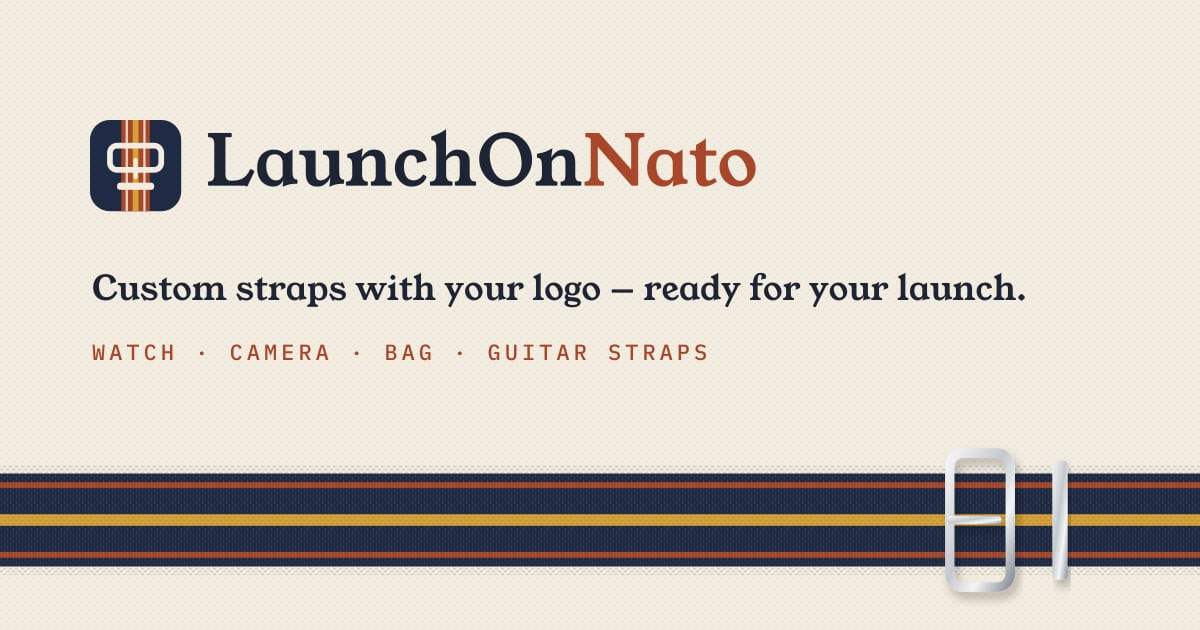
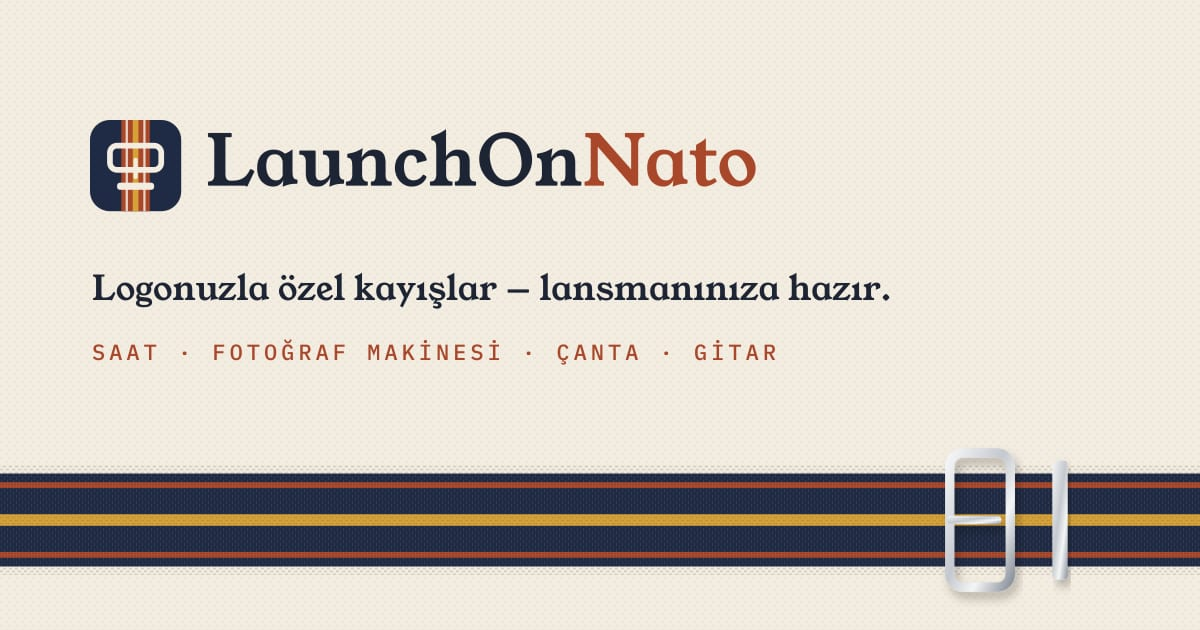
Make Turkish the main language; drop strap lettering; stronger scroll reveal
- Turkish served at /, English at /en/, /tr/ redirects to / (301)
- Per-language Open Graph image; Turkish glyphs in illustration text
- Remove LAUNCHONNATO lettering from hero, camera and guitar illustrations
- Scroll reveal slides further; with reduced motion it still fades in

Claude-Session: https://claude.ai/code/session_011wjvvRgPemc6oUo8ikWZLA

Changed region(s): [[0.0617, 0.4222, 0.8633, 0.4825], [0.2775, 0.5429, 0.6475, 0.573], [0.0617, 0.5429, 0.2467, 0.573]]

diff --git a/src/i18n/index.ts b/src/i18n/index.ts
@@ -1,7 +1,9 @@
 import en from './en';
 import tr from './tr';
 
-export const languages = { en: 'EN', tr: 'TR' } as const;
+// Turkish is the main language (served at /), English lives under /en/
+export const languages = { tr: 'TR', en: 'EN' } as const;
+export const defaultLang = 'tr';
 export type Lang = keyof typeof languages;
 
 export const dicts = { en, tr };
@@ -13,7 +15,7 @@ export function t(lang: Lang) {
 /** Root-relative URL for a page in the given language ("" = home). */
 export function localePath(lang: Lang, path = '') {
   const clean = path.replace(/^\/+/, '');
-  return lang === 'en' ? `/${clean}` : `/${lang}/${clean}`;
+  return lang === defaultLang ? `/${clean}` : `/${lang}/${clean}`;
 }
 
 export const isTodo = (s: string) => s.trim().startsWith('TODO');

diff --git a/src/styles/global.css b/src/styles/global.css
@@ -109,17 +109,17 @@
   }
 }
 
-/* Gentle reveal — only when JS is running and the user hasn't asked for reduced motion */
+/* Reveal on scroll. Content stays visible without JS. With reduced motion it's a soft fade only. */
+.js [data-reveal] {
+  opacity: 0;
+  transition: opacity 0.7s ease, transform 0.8s cubic-bezier(0.2, 0.7, 0.2, 1);
+}
 @media (prefers-reduced-motion: no-preference) {
-  .js [data-reveal] {
-    opacity: 0;
-    transform: translateY(14px);
-    transition: opacity 0.6s ease, transform 0.6s ease;
-  }
-  .js [data-reveal].is-visible {
-    opacity: 1;
-    transform: none;
-  }
+  .js [data-reveal] { transform: translateY(28px); }
+}
+.js [data-reveal].is-visible {
+  opacity: 1;
+  transform: none;
 }
 
 /* FAQ disclosure marker */

diff --git a/src/i18n/tr.ts b/src/i18n/tr.ts
@@ -30,7 +30,7 @@ const tr: Dict = {
     secondary: 'Kayışları gör',
     note: 'Fotoğraf makinesi, çanta ve gitar askıları da yapıyoruz. Aynı bant, aynı özen.',
     imgAlt: 'Tokasının yanında nakış logolu dokuma kayışlı bir saat',
-    tag: 'Pass-through · 20 mm · jakarlı logo',
+    tag: 'Pass-through · 20 mm · parlak çelik',
   },
   process: {
     eyebrow: 'Saat markaları için',

diff --git a/src/i18n/en.ts b/src/i18n/en.ts
@@ -29,7 +29,7 @@ const en = {
     secondary: 'See the straps',
     note: 'Also camera, bag and guitar straps. Same tape, same care.',
     imgAlt: 'Watch on a woven strap with a stitched logo near the buckle',
-    tag: 'Pass-through · 20 mm · jacquard logo',
+    tag: 'Pass-through · 20 mm · polished steel',
   },
   process: {
     eyebrow: 'For watch brands',

diff --git a/README.md b/README.md
@@ -1,7 +1,7 @@
 # LaunchOnNato — site
 
 Business-card site for LaunchOnNato: custom straps with the client's logo (watch straps first; camera, bag and guitar straps too).
-Astro + Tailwind CSS, fully static. English at `/`, Turkish at `/tr/`.
+Astro + Tailwind CSS, fully static. Turkish (main) at `/`, English at `/en/` (old `/tr/` links redirect to `/`).
 
 ## Run locally
 
